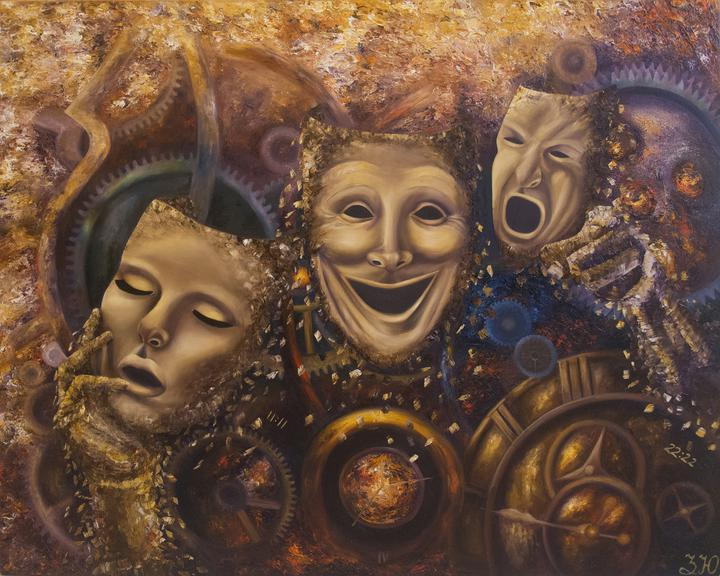
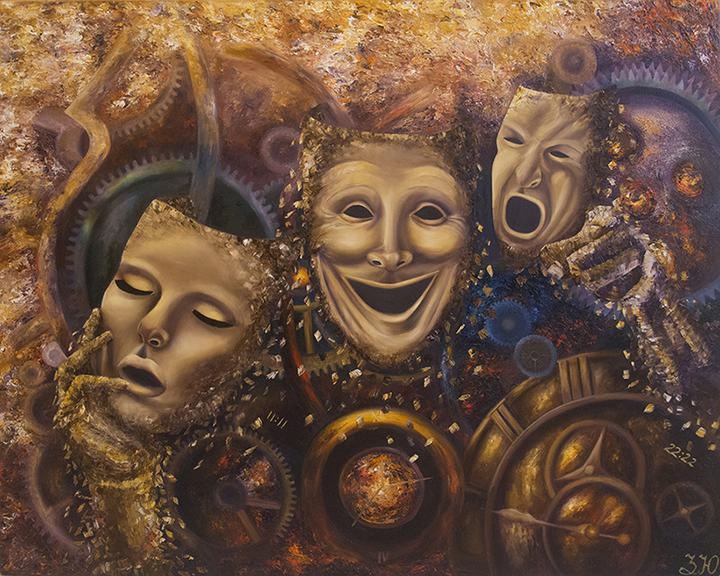
размер картинки

Changed region(s): [[0.7639, 0.0, 0.7944, 0.0312], [0.7028, 0.0, 0.7333, 0.0312], [0.55, 0.0, 0.5806, 0.0312]]

diff --git a/paintings/index.html b/paintings/index.html
@@ -100,10 +100,10 @@
                         <meta itemprop="width" content="720">
                         <meta itemprop="height" content="576">
                             <div class="col-md-6 col-md-push-6 imageAlignLeft imageContainer">
-                                <a href="/paintings/8db5813e-f125-549a-97c2-e9c185b0952f.large.jpg" itemprop="contentUrl" data-size="2362x1890">
+                                <a href="/paintings/8db5813e-f125-549a-97c2-e9c185b0952f.large.jpg" itemprop="contentUrl" data-size="800x640">
                                     <img class="img-thumbnail imageBig" src="/paintings/8db5813e-f125-549a-97c2-e9c185b0952f.small.jpg" itemprop="thumbnail" alt="And this, too, shall pass away" data-index="3 ">
                                 </a>
-                                <p class="label label-default sizeLabel">3.6 Mb</p>
+                                <p class="label label-default sizeLabel">0.6 Mb</p>
                             </div>
 
                             <div class="col-md-6 col-md-pull-6 imageAlignRight">
